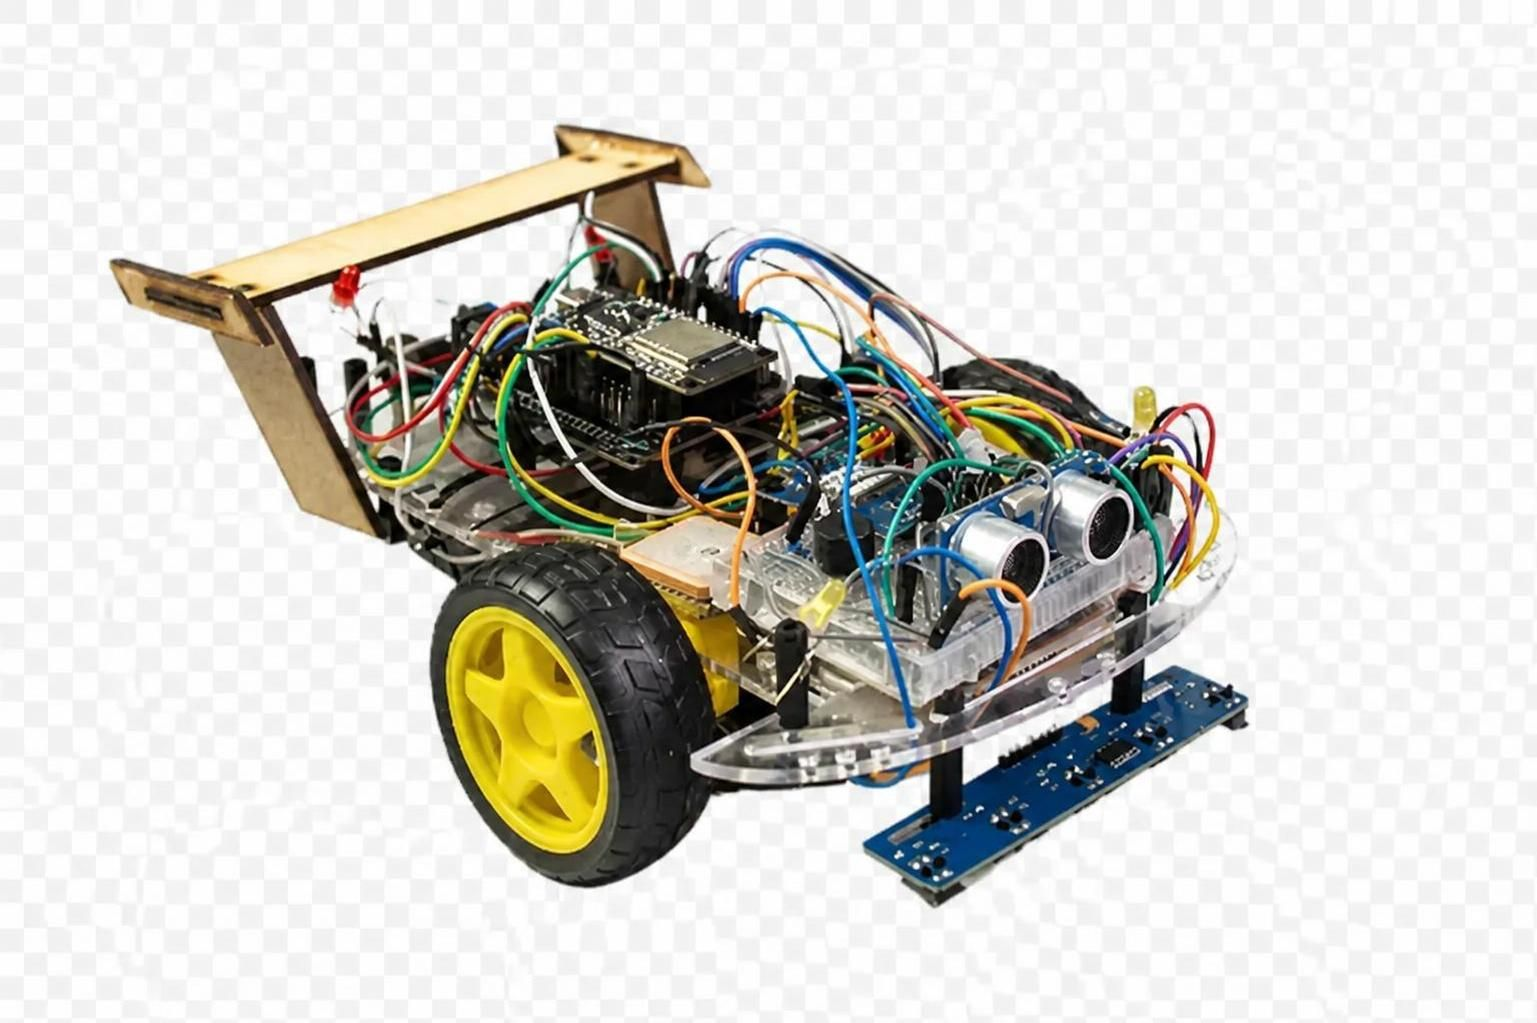
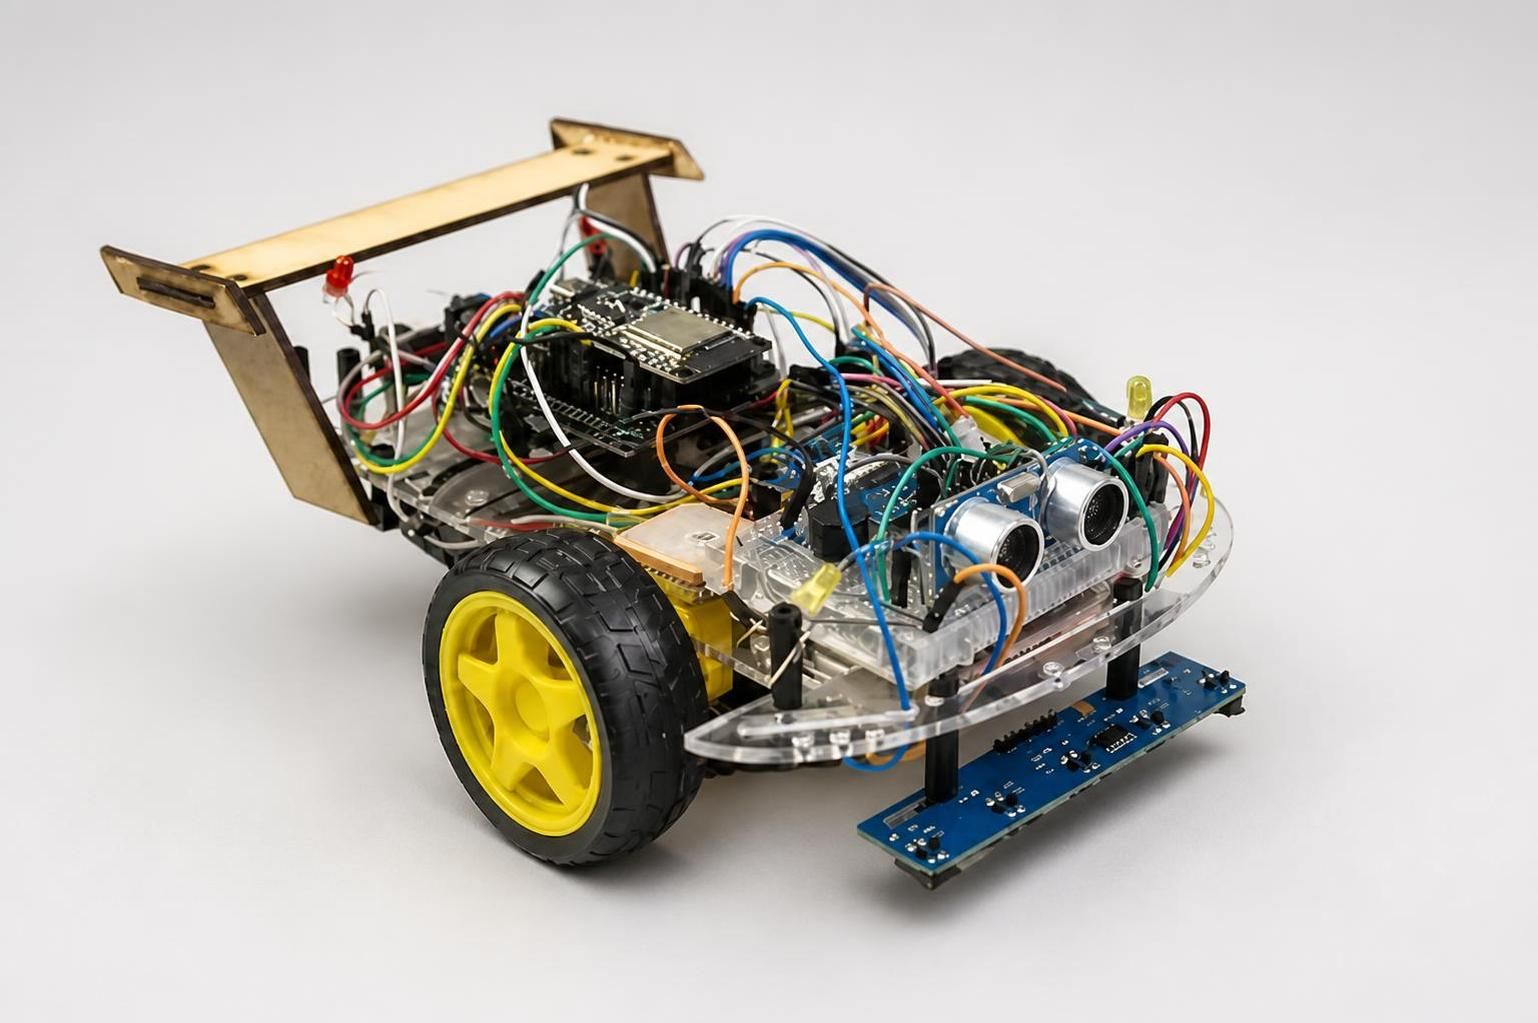
chore: improve hardware image

diff --git a/README.md b/README.md
@@ -1,8 +1,6 @@
 # Smart Car
 
-Vehículo autónomo basado en ESP32, con control web en tiempo real y comunicación mediante MQTT.
-
-El proyecto permite controlar el vehículo de forma manual o utilizar distintos modos autónomos, como seguimiento de línea, evasión de obstáculos y navegación mediante GPS. Es compatible con brokers MQTT locales o públicos y no depende de aplicaciones móviles ni de servicios propietarios.
+Vehículo autónomo basado en ESP32, con control web en tiempo real y comunicación mediante MQTT. El proyecto permite controlar el vehículo de forma manual o utilizar distintos modos autónomos, como seguimiento de línea, evasión de obstáculos y navegación mediante GPS. Es compatible con brokers MQTT locales o públicos y no depende de aplicaciones móviles ni de servicios propietarios.
 
 ![hardware](./assets/hardware.jpeg)
 
